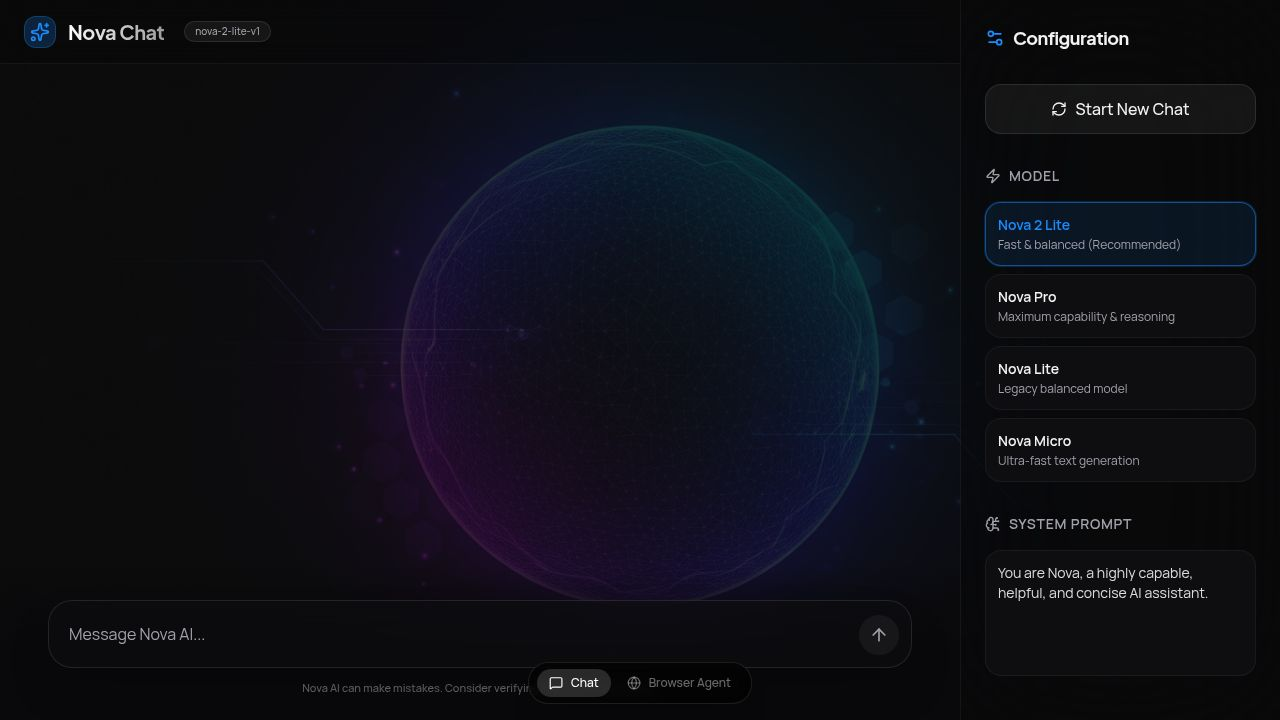
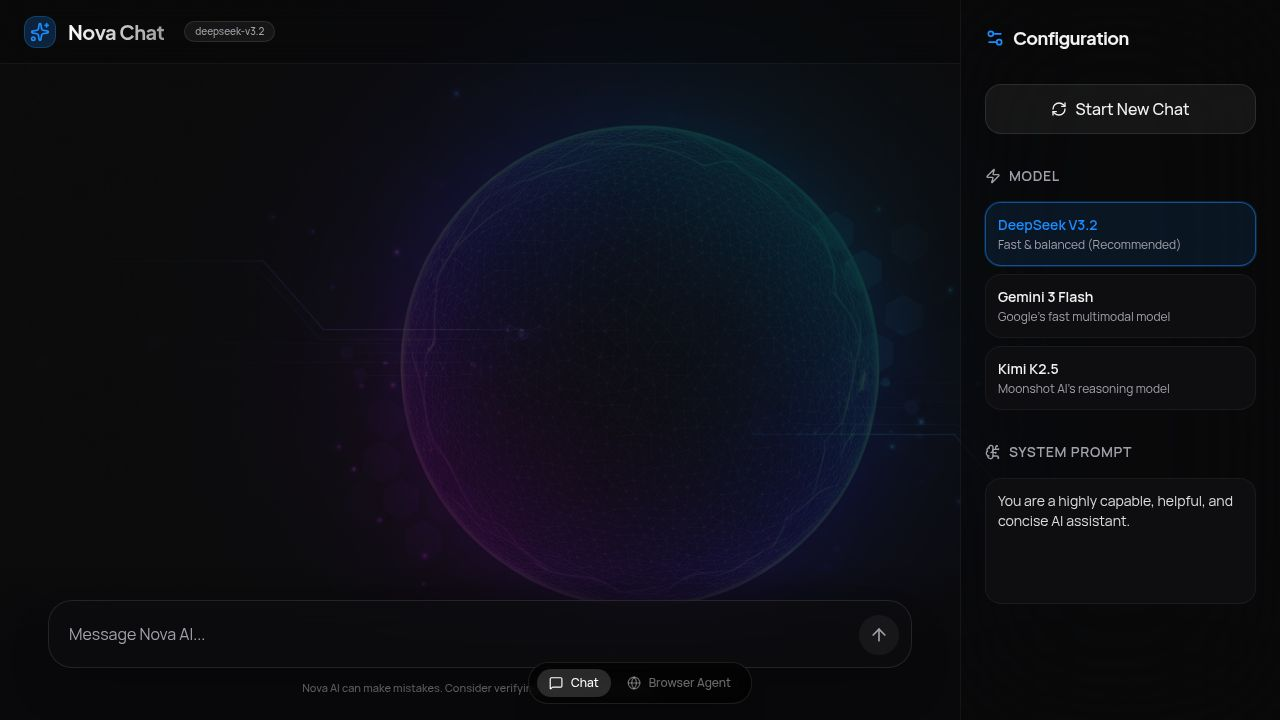
Enable mobile site access and update AI models for chat functionality
Integrate a proxy in the browser agent server to serve the mobile site at /mobile/, and update AI model names in chat applications to compatible Groq models.

Replit-Commit-Author: Agent
Replit-Commit-Session-Id: 0c58299e-9ada-4f9a-a4a0-42f3aa5e3e16
Replit-Commit-Checkpoint-Type: full_checkpoint
Replit-Commit-Event-Id: 8ee82a98-98b9-41ec-bb36-1c5b8878f3f9
Replit-Commit-Screenshot-Url: https://storage.googleapis.com/screenshot-production-us-central1/0b713222-2582-4133-9636-5fdfb8ab2b34/0c58299e-9ada-4f9a-a4a0-42f3aa5e3e16/DiE0rT7
Replit-Helium-Checkpoint-Created: true

diff --git a/artifacts/nova-mobile/vite.config.ts b/artifacts/nova-mobile/vite.config.ts
@@ -3,7 +3,6 @@ import react from "@vitejs/plugin-react";
 import tailwindcss from "@tailwindcss/vite";
 import path from "path";
 import runtimeErrorOverlay from "@replit/vite-plugin-runtime-error-modal";
-import type { Plugin } from "vite";
 
 const rawPort = process.env.PORT;
 const port = rawPort && !Number.isNaN(Number(rawPort)) && Number(rawPort) > 0
@@ -12,26 +11,9 @@ const port = rawPort && !Number.isNaN(Number(rawPort)) && Number(rawPort) > 0
 
 const basePath = process.env.BASE_PATH ?? "/mobile/";
 
-function healthCheckPlugin(): Plugin {
-  return {
-    name: "health-check",
-    configureServer(server) {
-      server.middlewares.use((req, res, next) => {
-        if (req.url === "/" || req.url === "/__health") {
-          res.writeHead(200, { "Content-Type": "text/plain" });
-          res.end("ok");
-          return;
-        }
-        next();
-      });
-    },
-  };
-}
-
 export default defineConfig({
   base: basePath,
   plugins: [
-    healthCheckPlugin(),
     react(),
     tailwindcss(),
     runtimeErrorOverlay(),

diff --git a/artifacts/nova-mobile/src/pages/MobileChatPage.tsx b/artifacts/nova-mobile/src/pages/MobileChatPage.tsx
@@ -4,9 +4,9 @@ import { useChatSession, type ParsedCommand, type Message } from "@/hooks/use-ch
 import { useBrowser } from "@/context/BrowserContext";
 
 const MODELS = [
-  { id: "deepseek-v3.2", label: "DeepSeek V3.2" },
-  { id: "gemini-3-flash-preview", label: "Gemini 3 Flash" },
-  { id: "kimi-k2.5", label: "Kimi K2.5" },
+  { id: "llama-3.3-70b-versatile", label: "Llama 3.3 70B" },
+  { id: "llama-3.1-8b-instant", label: "Llama 3.1 8B" },
+  { id: "mixtral-8x7b-32768", label: "Mixtral 8x7B" },
 ];
 
 const SUGGESTIONS = [
@@ -184,7 +184,7 @@ Se não entender o pedido, explique o que você pode fazer. Responda no mesmo id
 
   const handleCommand = useCallback((cmd: ParsedCommand) => {
     if (cmd.type === "stop") stopTask();
-    if (cmd.type === "new_task" && cmd.param) runTask(cmd.param, "deepseek-v3.2");
+    if (cmd.type === "new_task" && cmd.param) runTask(cmd.param, "llama-3.3-70b-versatile");
     if (cmd.type === "respond" && cmd.param) respondToHuman(cmd.param);
   }, [stopTask, runTask, respondToHuman]);
 

diff --git a/artifacts/nova-mobile/src/hooks/use-chat-session.ts b/artifacts/nova-mobile/src/hooks/use-chat-session.ts
@@ -15,7 +15,7 @@ export interface ParsedCommand {
   param?: string;
 }
 
-export type NovaModel = "deepseek-v3.2" | "gemini-3-flash-preview" | "kimi-k2.5";
+export type NovaModel = "llama-3.3-70b-versatile" | "llama-3.1-8b-instant" | "mixtral-8x7b-32768";
 
 function parseCommands(text: string): { cleanText: string; commands: ParsedCommand[] } {
   const commands: ParsedCommand[] = [];
@@ -49,7 +49,7 @@ interface UseChatSessionOptions {
 
 export function useChatSession({ browserContextForPrompt, onCommand }: UseChatSessionOptions = {}) {
   const [messages, setMessages] = useState<Message[]>([]);
-  const [model, setModel] = useState<NovaModel>("deepseek-v3.2");
+  const [model, setModel] = useState<NovaModel>("llama-3.3-70b-versatile");
   const [systemPrompt, setSystemPrompt] = useState<string>(
     "Você é Nova, uma assistente de IA altamente capaz, útil e concisa. Responda sempre no mesmo idioma do usuário."
   );

diff --git a/artifacts/nova-chat/src/hooks/use-chat-session.ts b/artifacts/nova-chat/src/hooks/use-chat-session.ts
@@ -8,11 +8,11 @@ export interface Message extends ChatMessage {
   timestamp: Date;
 }
 
-export type NovaModel = "deepseek-v3.2" | "gemini-3-flash-preview" | "kimi-k2.5";
+export type NovaModel = "llama-3.3-70b-versatile" | "llama-3.1-8b-instant" | "mixtral-8x7b-32768";
 
 export function useChatSession() {
   const [messages, setMessages] = useState<Message[]>([]);
-  const [model, setModel] = useState<NovaModel>("deepseek-v3.2");
+  const [model, setModel] = useState<NovaModel>("llama-3.3-70b-versatile");
   const [systemPrompt, setSystemPrompt] = useState<string>("You are a highly capable, helpful, and concise AI assistant.");
   const [tokenUsage, setTokenUsage] = useState<TokenUsage | null>(null);
   const [isTyping, setIsTyping] = useState(false);

diff --git a/artifacts/nova-chat/src/components/SettingsPanel.tsx b/artifacts/nova-chat/src/components/SettingsPanel.tsx
@@ -14,9 +14,9 @@ interface SettingsPanelProps {
 }
 
 const MODELS: { id: NovaModel; name: string; desc: string }[] = [
-  { id: "deepseek-v3.2", name: "DeepSeek V3.2", desc: "Fast & balanced (Recommended)" },
-  { id: "gemini-3-flash-preview", name: "Gemini 3 Flash", desc: "Google's fast multimodal model" },
-  { id: "kimi-k2.5", name: "Kimi K2.5", desc: "Moonshot AI's reasoning model" },
+  { id: "llama-3.3-70b-versatile", name: "Llama 3.3 70B", desc: "Poderoso & equilibrado (Recomendado)" },
+  { id: "llama-3.1-8b-instant", name: "Llama 3.1 8B", desc: "Ultra rápido & leve" },
+  { id: "mixtral-8x7b-32768", name: "Mixtral 8x7B", desc: "Contexto longo, respostas detalhadas" },
 ];
 
 export function SettingsPanel({

diff --git a/artifacts/api-server/src/routes/chat.ts b/artifacts/api-server/src/routes/chat.ts
@@ -31,7 +31,8 @@ router.post("/chat", async (req: Request, res: Response) => {
   }
 
   const { baseUrl, apiKey, defaultModel } = getLLMConfig();
-  const { messages, model = defaultModel } = parseResult.data;
+  const { messages } = parseResult.data;
+  const model = defaultModel;
 
   try {
     const response = await fetch(`${baseUrl}/chat/completions`, {

diff --git a/artifacts/browser-agent-server/main.py b/artifacts/browser-agent-server/main.py
@@ -2,14 +2,21 @@ import asyncio
 import base64
 import json
 import os
+import subprocess
+import sys
 import uuid
 from datetime import datetime
 
+import httpx
 import uvicorn
-from fastapi import FastAPI, HTTPException
+from fastapi import FastAPI, HTTPException, Request
 from fastapi.middleware.cors import CORSMiddleware
-from fastapi.responses import StreamingResponse
+from fastapi.responses import StreamingResponse, Response
 from pydantic import BaseModel
+
+MOBILE_VITE_PORT = 23870
+MOBILE_VITE_URL = f"http://localhost:{MOBILE_VITE_PORT}"
+_mobile_proc: subprocess.Popen | None = None
 
 CHROMIUM_PATH = (
     os.environ.get("CHROMIUM_PATH")
@@ -131,6 +138,29 @@ app.add_middleware(
     allow_methods=["*"],
     allow_headers=["*"],
 )
+
+
+@app.on_event("startup")
+async def start_mobile_vite():
+    global _mobile_proc
+    workspace = os.path.dirname(os.path.dirname(os.path.abspath(__file__)))
+    env = {**os.environ, "PORT": str(MOBILE_VITE_PORT), "BASE_PATH": "/mobile/"}
+    _mobile_proc = subprocess.Popen(
+        ["pnpm", "--filter", "@workspace/nova-mobile", "run", "dev"],
+        cwd=workspace,
+        env=env,
+        stdout=sys.stdout,
+        stderr=sys.stderr,
+    )
+
+
+@app.on_event("shutdown")
+async def stop_mobile_vite():
+    if _mobile_proc and _mobile_proc.poll() is None:
+        _mobile_proc.terminate()
+
+
+_http_client = httpx.AsyncClient(timeout=30.0)
 
 tasks: dict[str, dict] = {}
 task_queues: dict[str, asyncio.Queue] = {}
@@ -867,6 +897,31 @@ async def _run_agent(task_id: str, task: str, model: str, api_key: str, queue: a
             pass
         human_input_futures.pop(task_id, None)
         await queue.put(None)
+
+
+@app.api_route("/mobile/{path:path}", methods=["GET", "POST", "PUT", "DELETE", "PATCH", "HEAD", "OPTIONS"])
+async def mobile_proxy(path: str, request: Request):
+    target_url = f"{MOBILE_VITE_URL}/mobile/{path}"
+    if request.url.query:
+        target_url += f"?{request.url.query}"
+    headers = {k: v for k, v in request.headers.items() if k.lower() not in ("host", "content-length")}
+    try:
+        body = await request.body()
+        resp = await _http_client.request(
+            method=request.method,
+            url=target_url,
+            headers=headers,
+            content=body,
+            follow_redirects=True,
+        )
+        return Response(
+            content=resp.content,
+            status_code=resp.status_code,
+            headers=dict(resp.headers),
+        )
+    except Exception:
+        await asyncio.sleep(0.5)
+        return Response(content=b"<html><body><p>A carregar...</p><script>setTimeout(()=>location.reload(),800)</script></body></html>", status_code=200, media_type="text/html")
 
 
 if __name__ == "__main__":
